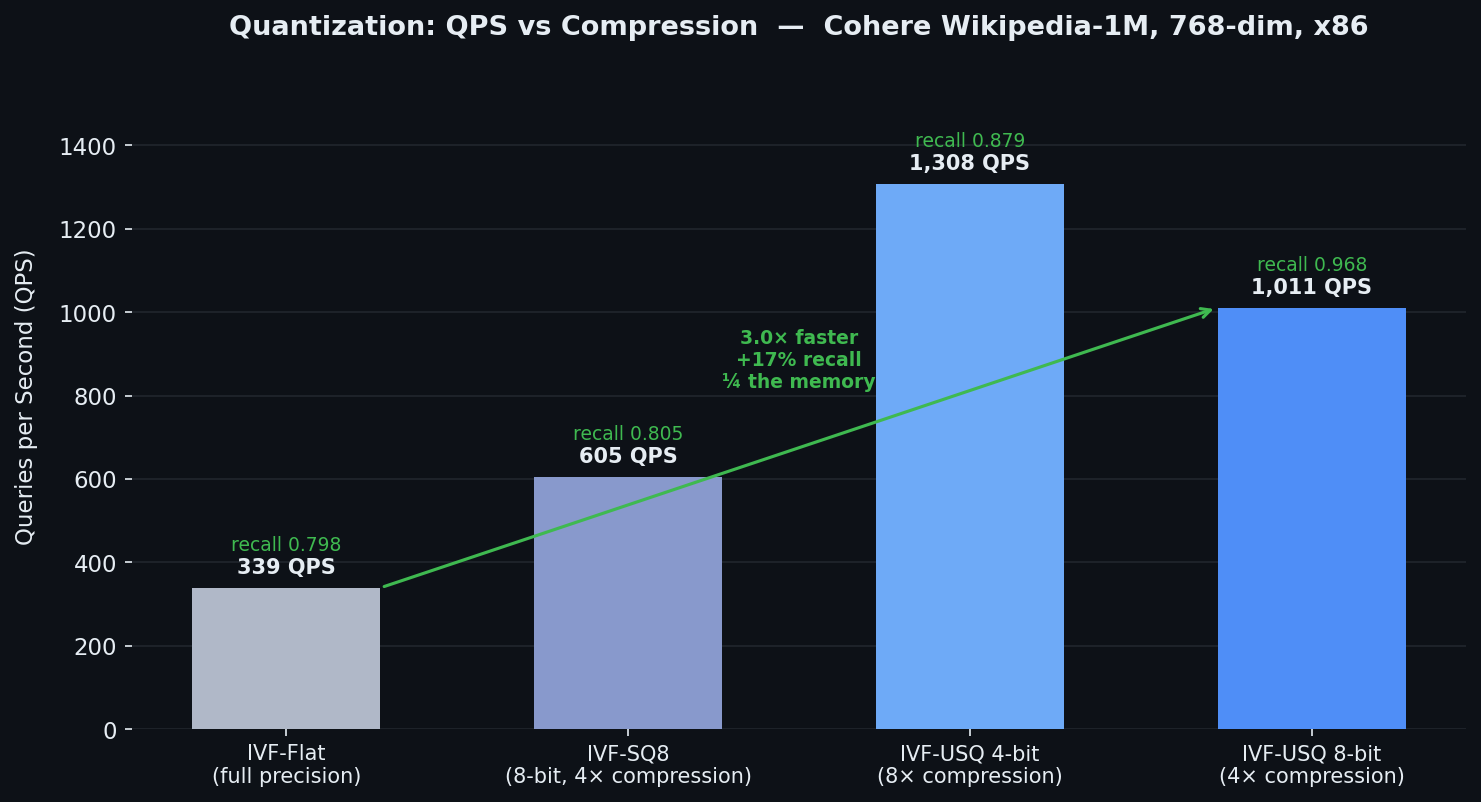
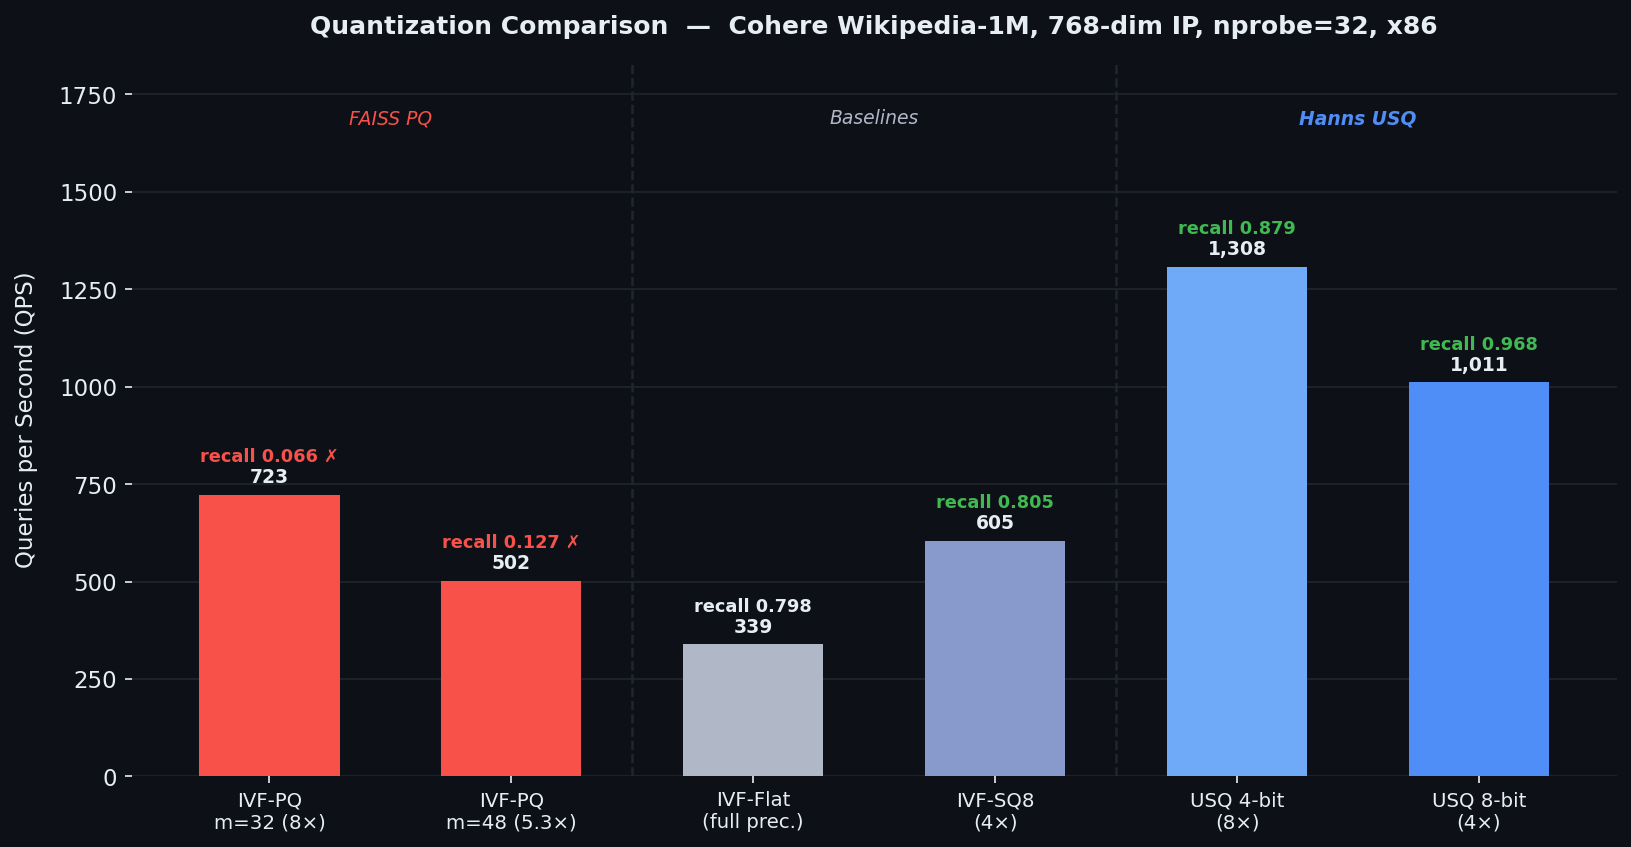
docs: add FAISS PQ vs USQ comparison on Cohere-1M
Authority run (x86, Cohere Wikipedia-1M, 768-dim IP, nprobe=32):
- FAISS PQ m=32: recall=0.066, 723 QPS (unusable)
- FAISS PQ m=48: recall=0.127, 502 QPS (unusable)
- USQ 8-bit 4x:  recall=0.968, 1011 QPS (+3x vs IVF-Flat)
- USQ 4-bit 8x:  recall=0.879, 1308 QPS (13x better recall than PQ at same compression)

diff --git a/examples/ivf_pq_cohere1m.rs b/examples/ivf_pq_cohere1m.rs
@@ -1,0 +1,237 @@
+//! Wikipedia-Cohere 1M IVF-PQ benchmark (IP, dim=768)
+//! Usage:
+//!   cargo run --example ivf_pq_cohere1m --release -- <optional_data_dir>
+
+use std::env;
+use std::error::Error;
+use std::fs::File;
+use std::io::Read;
+use std::path::Path;
+use std::time::Instant;
+
+use knowhere_rs::api::{DataType, IndexConfig, IndexParams, IndexType, MetricType, SearchRequest};
+use knowhere_rs::faiss::IvfPqIndex;
+
+const DEFAULT_DATA_DIR: &str = "/data/work/datasets/wikipedia-cohere-1m";
+const TOP_K: usize = 10;
+const EXPECTED_DIM: usize = 768;
+const NLIST: usize = 1024;
+const TRAIN_SIZE: usize = 100_000;
+const QPS_QUERIES: usize = 1_000;
+const M_SWEEP: [usize; 2] = [32, 48];
+const NPROBE_SWEEP: [usize; 2] = [32, 64];
+
+fn read_u32_le(file: &mut File) -> Result<u32, Box<dyn Error>> {
+    let mut buf = [0u8; 4];
+    file.read_exact(&mut buf)?;
+    Ok(u32::from_le_bytes(buf))
+}
+
+fn read_fbin(path: &Path) -> Result<(usize, usize, Vec<f32>), Box<dyn Error>> {
+    let mut file = File::open(path)?;
+    let n = read_u32_le(&mut file)? as usize;
+    let dim = read_u32_le(&mut file)? as usize;
+    let total = n
+        .checked_mul(dim)
+        .ok_or_else(|| format!("overflow in n*dim for {}", path.display()))?;
+
+    let mut bytes = vec![0u8; total * std::mem::size_of::<f32>()];
+    file.read_exact(&mut bytes)?;
+
+    let mut vectors = Vec::with_capacity(total);
+    for chunk in bytes.chunks_exact(4) {
+        vectors.push(f32::from_le_bytes([chunk[0], chunk[1], chunk[2], chunk[3]]));
+    }
+    Ok((n, dim, vectors))
+}
+
+fn read_ibin(path: &Path) -> Result<(usize, usize, Vec<i32>), Box<dyn Error>> {
+    let mut file = File::open(path)?;
+    let n = read_u32_le(&mut file)? as usize;
+    let k = read_u32_le(&mut file)? as usize;
+    let total = n
+        .checked_mul(k)
+        .ok_or_else(|| format!("overflow in n*k for {}", path.display()))?;
+
+    let mut bytes = vec![0u8; total * std::mem::size_of::<i32>()];
+    file.read_exact(&mut bytes)?;
+
+    let mut neighbors = Vec::with_capacity(total);
+    for chunk in bytes.chunks_exact(4) {
+        neighbors.push(i32::from_le_bytes([chunk[0], chunk[1], chunk[2], chunk[3]]));
+    }
+    Ok((n, k, neighbors))
+}
+
+fn rows_i32(flat: &[i32], width: usize) -> Vec<Vec<i32>> {
+    flat.chunks_exact(width).map(|row| row.to_vec()).collect()
+}
+
+fn measure_qps(
+    index: &IvfPqIndex,
+    queries: &[f32],
+    dim: usize,
+    nprobe: usize,
+    qps_queries: usize,
+) -> Result<f64, Box<dyn Error>> {
+    if qps_queries == 0 {
+        return Ok(0.0);
+    }
+
+    let req = SearchRequest {
+        top_k: TOP_K,
+        nprobe,
+        ..Default::default()
+    };
+
+    let warmup = &queries[..dim];
+    let _ = index.search(warmup, &req)?;
+
+    let start = Instant::now();
+    for query in queries.chunks_exact(dim).take(qps_queries) {
+        let _ = index.search(query, &req)?;
+    }
+    let secs = start.elapsed().as_secs_f64().max(f64::EPSILON);
+    Ok(qps_queries as f64 / secs)
+}
+
+fn measure_recall(
+    index: &IvfPqIndex,
+    queries: &[f32],
+    gt: &[Vec<i32>],
+    dim: usize,
+    nprobe: usize,
+) -> Result<f32, Box<dyn Error>> {
+    let eval_n = (queries.len() / dim).min(gt.len());
+    if eval_n == 0 {
+        return Ok(0.0);
+    }
+
+    let req = SearchRequest {
+        top_k: TOP_K,
+        nprobe,
+        ..Default::default()
+    };
+
+    let mut hits = 0usize;
+    for (qi, gt_row) in gt.iter().take(eval_n).enumerate() {
+        let query = &queries[qi * dim..(qi + 1) * dim];
+        let result = index.search(query, &req)?;
+        let rk = TOP_K.min(result.ids.len());
+        let gk = TOP_K.min(gt_row.len());
+        for &gid in gt_row.iter().take(gk) {
+            if result.ids.iter().take(rk).any(|&rid| rid == gid as i64) {
+                hits += 1;
+            }
+        }
+    }
+
+    Ok(hits as f32 / (eval_n * TOP_K) as f32)
+}
+
+fn make_pq_config(dim: usize, m: usize) -> IndexConfig {
+    IndexConfig {
+        index_type: IndexType::IvfPq,
+        metric_type: MetricType::Ip,
+        data_type: DataType::Float,
+        dim,
+        params: IndexParams {
+            nlist: Some(NLIST),
+            nprobe: Some(NPROBE_SWEEP[0]),
+            m: Some(m),
+            nbits_per_idx: Some(8),
+            ..Default::default()
+        },
+    }
+}
+
+fn main() -> Result<(), Box<dyn Error>> {
+    let data_dir_arg = env::args()
+        .nth(1)
+        .unwrap_or_else(|| DEFAULT_DATA_DIR.to_string());
+    let data_dir = Path::new(&data_dir_arg);
+    let base_path = data_dir.join("base.fbin");
+    let query_path = data_dir.join("query.fbin");
+    let gt_path = data_dir.join("gt.ibin");
+
+    if !base_path.exists() || !query_path.exists() || !gt_path.exists() {
+        return Err(format!(
+            "missing dataset files under {} (need base.fbin/query.fbin/gt.ibin)",
+            data_dir.display()
+        )
+        .into());
+    }
+
+    println!("=== Cohere 1M IVF-PQ benchmark ===");
+    println!("data_dir={}", data_dir.display());
+    println!("metric=IP nlist={} train_size={}", NLIST, TRAIN_SIZE);
+
+    let load_start = Instant::now();
+    let (base_n, base_dim, base) = read_fbin(&base_path)?;
+    let (query_n, query_dim, queries) = read_fbin(&query_path)?;
+    let (gt_n, gt_k, gt_flat) = read_ibin(&gt_path)?;
+    let gt = rows_i32(&gt_flat, gt_k);
+    println!(
+        "loaded: base_n={} query_n={} gt_n={} dim={} gt_k={} load_s={:.2}",
+        base_n,
+        query_n,
+        gt_n,
+        base_dim,
+        gt_k,
+        load_start.elapsed().as_secs_f64()
+    );
+
+    if base_dim == 0 || base_dim != query_dim {
+        return Err(format!("dim mismatch: base_dim={} query_dim={}", base_dim, query_dim).into());
+    }
+    if gt_n != query_n {
+        return Err(format!("gt rows {} != query rows {}", gt_n, query_n).into());
+    }
+    if gt_k < TOP_K {
+        return Err(format!("gt_k={} < top_k={}", gt_k, TOP_K).into());
+    }
+    if base_dim != EXPECTED_DIM {
+        println!(
+            "warning: expected dim={} but got {}, continuing",
+            EXPECTED_DIM, base_dim
+        );
+    }
+
+    let train_n = TRAIN_SIZE.min(base_n);
+    let train = &base[..train_n * base_dim];
+    let qps_queries = QPS_QUERIES.min(query_n);
+    let eval_queries = query_n.min(gt.len());
+
+    println!(
+        "setup: train_n={} eval_queries={} qps_queries={}",
+        train_n, eval_queries, qps_queries
+    );
+
+    for &m in &M_SWEEP {
+        if base_dim % m != 0 {
+            return Err(format!("invalid m={} for dim={}", m, base_dim).into());
+        }
+
+        let config = make_pq_config(base_dim, m);
+        let mut index = IvfPqIndex::new(&config)?;
+
+        let build_start = Instant::now();
+        index.train(train)?;
+        index.add(&base, None)?;
+        println!("build: m={} build_s={:.2}", m, build_start.elapsed().as_secs_f64());
+
+        for &nprobe in &NPROBE_SWEEP {
+            let recall = measure_recall(
+                &index,
+                &queries[..eval_queries * base_dim],
+                &gt[..eval_queries],
+                base_dim,
+                nprobe,
+            )?;
+            let qps = measure_qps(&index, &queries, base_dim, nprobe, qps_queries)?;
+            println!("m={} nprobe={} recall={:.3} qps={:.0}", m, nprobe, recall, qps);
+        }
+    }
+
+    Ok(())
+}

diff --git a/scripts/gen_charts.py b/scripts/gen_charts.py
@@ -153,42 +153,51 @@ def chart_speedup():
 
 
 def chart_usq_quantization():
-    # Cohere Wikipedia-1M, 768-dim IP, nprobe=32, x86 authority (2026-04-02)
-    labels   = ["IVF-Flat\n(full precision)", "IVF-SQ8\n(8-bit, 4× compression)",
-                "IVF-USQ 4-bit\n(8× compression)", "IVF-USQ 8-bit\n(4× compression)"]
-    qps      = [339,  605,  1_308, 1_011]
-    recalls  = [0.798, 0.805, 0.879, 0.968]
-    colors   = [NATIVE, "#8899CC", "#6EAAF7", HANNS]
+    # Cohere Wikipedia-1M, 768-dim IP, nprobe=32, x86 authority
+    # IVF-PQ: 2026-04-04 authority run; IVF-USQ: 2026-04-02 authority run
+    labels  = ["IVF-PQ\nm=32 (8×)", "IVF-PQ\nm=48 (5.3×)",
+               "IVF-Flat\n(full prec.)", "IVF-SQ8\n(4×)",
+               "USQ 4-bit\n(8×)", "USQ 8-bit\n(4×)"]
+    qps     = [723,   502,   339,   605,   1_308, 1_011]
+    recalls = [0.066, 0.127, 0.798, 0.805, 0.879, 0.968]
+    RED     = "#F85149"
+    colors  = [RED, RED, NATIVE, "#8899CC", "#6EAAF7", HANNS]
 
-    fig, ax = plt.subplots(figsize=(10, 5.5))
+    fig, ax = plt.subplots(figsize=(11, 5.8))
     fig.patch.set_facecolor(BG)
 
-    bars = ax.bar(labels, qps, color=colors, zorder=3, width=0.55)
+    bars = ax.bar(labels, qps, color=colors, zorder=3, width=0.58)
     ax.set_ylabel("Queries per Second (QPS)", labelpad=10)
-    ax.set_title("Quantization: QPS vs Compression  —  Cohere Wikipedia-1M, 768-dim, x86",
-                 pad=14, fontsize=13, fontweight="bold")
+    ax.set_title("Quantization Comparison  —  Cohere Wikipedia-1M, 768-dim IP, nprobe=32, x86",
+                 pad=14, fontsize=12, fontweight="bold")
     ax.yaxis.grid(True, zorder=0)
     ax.set_axisbelow(True)
     ax.spines[["top","right","left","bottom"]].set_visible(False)
 
-    # QPS value + recall label above each bar
-    for bar, q, r in zip(bars, qps, recalls):
+    for bar, q, r, col in zip(bars, qps, recalls, colors):
         h = bar.get_height()
-        ax.text(bar.get_x() + bar.get_width()/2, h + 25,
-                f"{q:,} QPS", ha="center", va="bottom", fontsize=10,
+        # recall label — red for PQ (unusable), green for USQ
+        r_color = RED if r < 0.2 else (ACCENT if r > 0.8 else TEXT)
+        r_label = f"recall {r:.3f}" if r >= 0.2 else f"recall {r:.3f} ✗"
+        ax.text(bar.get_x() + bar.get_width()/2, h + 20,
+                f"{q:,}", ha="center", va="bottom", fontsize=9,
                 fontweight="bold", color=TEXT)
-        ax.text(bar.get_x() + bar.get_width()/2, h + 80,
-                f"recall {r:.3f}", ha="center", va="bottom", fontsize=9,
-                color=ACCENT)
+        ax.text(bar.get_x() + bar.get_width()/2, h + 75,
+                r_label, ha="center", va="bottom", fontsize=8.5,
+                color=r_color, fontweight="bold")
 
-    ax.set_ylim(0, max(qps) * 1.22)
-    ax.tick_params(axis='x', labelsize=10)
+    # divider between PQ and Hanns groups
+    top = max(qps) * 1.28
+    ax.axvline(1.5, color=GRID, linewidth=1.2, linestyle="--", zorder=2)
+    ax.axvline(3.5, color=GRID, linewidth=1.2, linestyle="--", zorder=2)
+    ax.text(0.5, top, "FAISS PQ", ha="center", fontsize=9,
+            color=RED, style="italic")
+    ax.text(2.5, top, "Baselines", ha="center", fontsize=9, color=NATIVE, style="italic")
+    ax.text(4.5, top, "Hanns USQ", ha="center", fontsize=9,
+            color=HANNS, style="italic", fontweight="bold")
 
-    # annotation: USQ 4x vs IVF-Flat
-    ax.annotate("", xy=(3 - 0.275, 1_011), xytext=(0 + 0.275, 339),
-                arrowprops=dict(arrowstyle="->", color=ACCENT, lw=1.5))
-    ax.text(1.5, 820, "3.0× faster\n+17% recall\n¼ the memory",
-            ha="center", fontsize=9, color=ACCENT, fontweight="bold")
+    ax.set_ylim(0, max(qps) * 1.40)
+    ax.tick_params(axis='x', labelsize=9.5)
 
     fig.tight_layout()
     path = f"{OUT}/usq_quantization.png"

diff --git a/README.md b/README.md
@@ -33,22 +33,28 @@ Built from scratch. No C++ dependencies. Benchmarked head-to-head against FAISS 
 
 ---
 
-## Quantization: More Speed, Less Memory
+## Quantization: Where FAISS PQ Breaks Down, USQ Excels
 
-USQ (Unit Sphere Quantizer) — Hanns' unified quantizer — compresses vectors to 1/4/8-bit with an orthogonal rotation pass, then scores with AVX512VNNI integer dot products.
+Standard Product Quantization (PQ) — used by FAISS and most ANN libraries — minimizes L2 reconstruction error. On modern embedding search (high-dim, Inner Product metric), this is the wrong objective: PQ recall collapses to near zero.
+
+USQ (Unit Sphere Quantizer) applies a QR orthogonal rotation before quantizing, making compression metric-agnostic. The result speaks for itself:
 
 ![USQ Quantization](assets/benchmarks/usq_quantization.png)
 
-> Dataset: Cohere Wikipedia-1M (768-dim, Inner Product), nprobe=32, x86.
+> Dataset: Cohere Wikipedia-1M (768-dim, Inner Product), nprobe=32, x86 authority.
 
-**USQ 4× compression** (8-bit) achieves recall **0.968** at **1,011 QPS** — **3× faster** than uncompressed IVF-Flat at higher recall, using **¼ the memory**.
+| Method | Compression | QPS (nprobe=32) | Recall@10 | Usable? |
+|--------|-------------|-----------------|-----------|---------|
+| IVF-PQ m=32 | 8× | 723 | **0.066** | ✗ |
+| IVF-PQ m=48 | 5.3× | 502 | **0.127** | ✗ |
+| IVF-Flat | 1× (full) | 339 | 0.798 | ✓ |
+| IVF-SQ8 | 4× | 605 | 0.805 | ✓ |
+| **USQ 4-bit** | **8×** | **1,308** | **0.879** | ✓ |
+| **USQ 8-bit** | **4×** | **1,011** | **0.968** | ✓ |
 
-| Method | Compression | Memory | QPS (nprobe=32) | Recall@10 |
-|--------|-------------|--------|-----------------|-----------|
-| IVF-Flat | 1× (full) | 100% | 339 | 0.798 |
-| IVF-SQ8 | 4× | 25% | 605 | 0.805 |
-| IVF-USQ 4-bit | **8×** | **12.5%** | **1,308** | 0.879 |
-| IVF-USQ 8-bit | **4×** | **25%** | **1,011** | **0.968** |
+USQ 8-bit (4× compression): **3× faster** than IVF-Flat, **+17% better recall**, **¼ the memory**.
+
+USQ 4-bit (8× compression): at the same compression ratio where PQ gives recall=0.066, USQ gives **0.879** — a **13× improvement in recall**.
 
 On 3072-dim embeddings (SimpleWiki-OpenAI-260K), USQ 8× still achieves recall **0.925** at 1,607 QPS.
 
